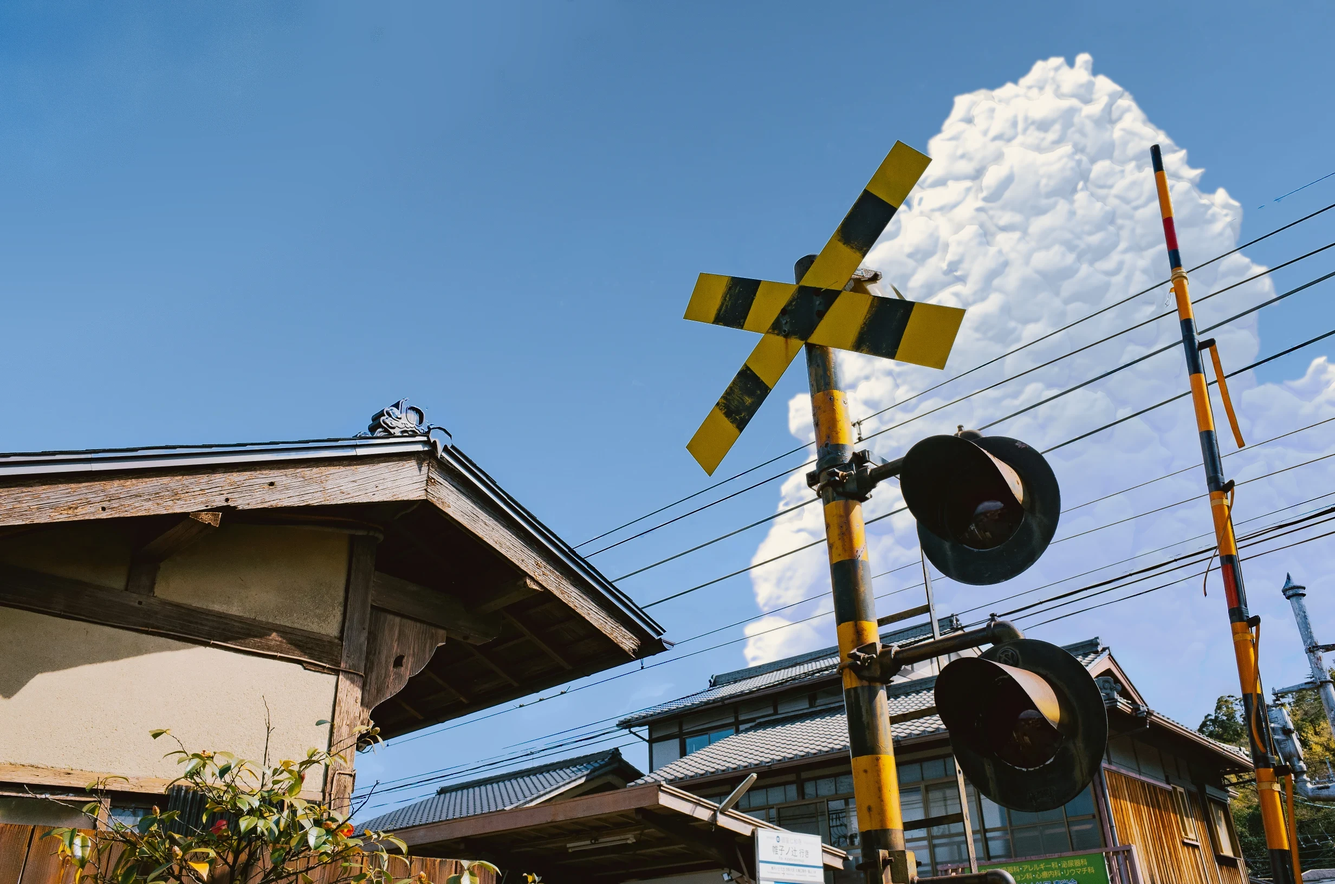
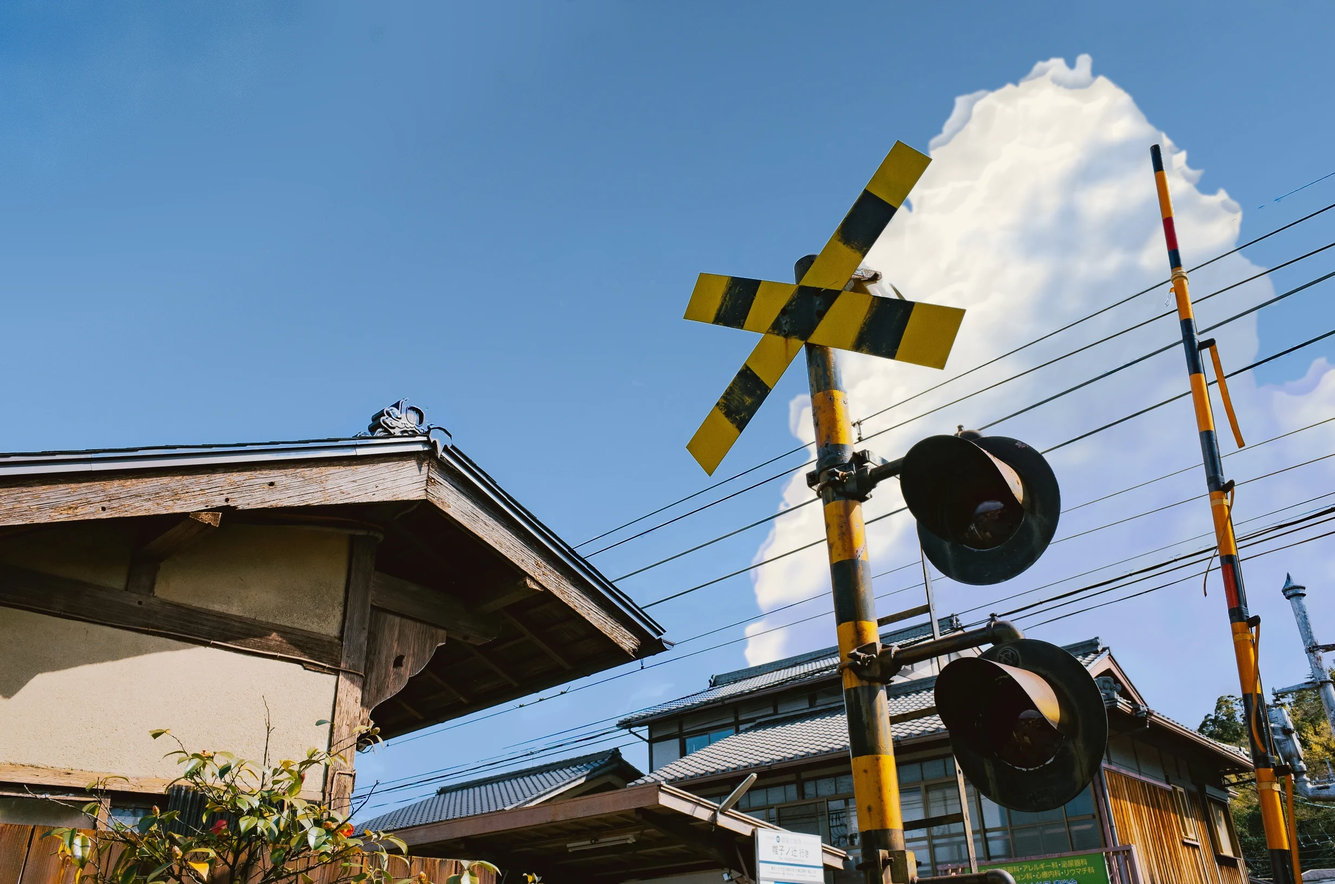
Lab: climb curve-mirror round 1
Claude-Session: https://claude.ai/code/session_01RqENhngNCzDFmJWDZueXGV

diff --git a/tools/depth/bakes/curve-mirror/clouds.py b/tools/depth/bakes/curve-mirror/clouds.py
@@ -114,9 +114,11 @@ TOP = np.array([0.93, 0.885, 0.80], np.float32)  # a sunlit top: warm neutral (s
 BELLY = np.array([0.397, 0.503, 0.651], np.float32)
 WRAP = 0.3  # the light's wrap (scattering)
 LZ = 0.35  # how much of the light falls on the face turned to the viewer
-CAP = (0.18, 0.82)  # the cap: lit to here (0, the sunlit limb), shaded from here, across the heap
-SHAPE = 6.0  # the scale the heap is lit at (its dome, not its edge), px at 28 px/deg
-RELIEF_N = 0.35  # how much of the towers' relief tilts that normal
+CAP = (0.04, 0.9)  # the cap: lit to here (0, the sunlit limb), shaded from here, across the heap
+SHAPE = 48.0  # the scale the heap is lit at (its towers, not its puffs), px at 28 px/deg
+RELIEF_N = 0.6  # how much of the big lobes' relief tilts that normal
+LOBE = 0.33  # the big lobes' domes are lit at this share of SHAPE
+DOME = (0.33, 0.56)  # a big lobe's turn to the sun: shaded under here, fully lit over here
 MFP = 120.0  # the sun's mean free path into a heap, px at 28 px/deg
 REACH = 240.0  # how far along the sun's line a heap is measured, px at 28 px/deg
 THIN = 0.42  # a thin heap's even light, between the belly (0) and the tops (1)
@@ -124,7 +126,7 @@ CHORD = (14.0, 60.0)  # a heap's chord along the sun's line: thin to here, a bod
 SIL = 0.5  # how much of a pixel is cloud before the plate's silhouette is opaque
 OPQ = 3.0  # how fast the body goes opaque with its thickness
 FEATHER = 2.2  # the edge's feather into the sky, px (sigma) at 28 px/deg
-DETAIL = 1.2  # how much of the plate's own puff texture is kept (in the light)
+DETAIL = 0.35  # how much of the puff texture is kept (in the light)
 TEX_H = 0.15  # and as relief (in the height field)
 CORE = 0.18  # how much of a pixel is cloud before it is part of a heap's body
 MERGE = 30.0  # fragments within about this (px at 28 px/deg) are one heap
@@ -429,9 +431,11 @@ def relight(lin, sky, ray, right, up, sun, ppd, aspect=None, keep=None, white=No
 # budded on its upper rim, and smaller ones again on theirs. The body is the
 # height field of the union (the nearest surface), its edge bumped with
 # smooth noise so no lobe is a circle. It takes the same light as the heaps
-# above: the sun's optical depth through the massing (the cap is its
-# sun-facing top and left, the belly the far, low side), each lobe's own
-# roundness off the height field's normal, the crevices between lobes in
+# above, at the tower's scale: the sun's optical depth through the massing
+# (the cap is its sun-facing top and left, the belly the far, low side), the
+# big lobes' domes turning across it (each lobe one dome over its buds; the
+# buds only a few per cent of texture: lit each as its own dome, they were an
+# even field of equal lumps, hammered tin), the folds between big lobes in
 # their neighbours' shade, so the light runs from TOP at the sunlit tops to
 # BELLY under them; feathered at its edge (FEATHER), thinning to a veil at
 # its base where the aerial haze takes it, and composited only over the open
@@ -447,9 +451,11 @@ TOWERS = (
         (1240, 260, 150), (1100, 230, 135), (975, 190, 120), (870, 130, 105), (800, 60, 85))},
 )
 BUD = ((0.5, 4, 0.74), (0.45, 2, 0.78))  # cauliflower: (radius, buds, distance) of each level, of its parent
+ENVELOPE = 1.3  # a big lobe's dome over its buds, of its radius (for the light)
 DEPTH_Z = 0.55  # how much nearer a lobe at a tower's middle stands than one at its flank
 WOBBLE = (9.0, 1.4)  # the edge's noise: px of coarse and fine displacement at 28 px/deg
 M_OPQ = 5.0  # px of lobe height to opaque
+EDGE_IN = 2.5  # px the edge's matte is eroded before it is feathered, at 28 px/deg
 M_MFP = 170.0  # the sun's mean free path through the massing, px at 28 px/deg
 M_REACH = 700.0  # how far toward the sun the massing is measured, px at 28 px/deg
 M_AO = 26.0  # px of crevice (the height under its neighbourhood's) for full shade
@@ -483,7 +489,8 @@ def _clear(lin, sky, s):
 
 
 def _lobes(tower, s):
-    """The tower's lobes, (x, y, r, z): its tiers' rows, each lobe budded."""
+    """The tower's lobes, (x, y, r, z, level): its tiers' rows (level 0),
+    each lobe budded (1, 2)."""
     rng = np.random.default_rng(tower["seed"])
     x0, lean = tower["x"] * s, tower["lean"]
     y_base = tower["tiers"][0][0] * s
@@ -499,13 +506,13 @@ def _lobes(tower, s):
             r = lr * rng.uniform(0.75, 1.25)
             # nearer at the tower's middle: a column, not a wall
             z = DEPTH_Z * np.sqrt(max(hw * hw - (x - xc) ** 2, 0.0)) + rng.uniform(-0.1, 0.1) * lr
-            out.append((x, y, r, z))
+            out.append((x, y, r, z, 0))
     # cauliflower: buds on each lobe's upper rim (up and out, never down
     # into the body), and buds on those
     gen = out
     for frac, nb, dist in BUD:
         new = []
-        for (x, y, r, z) in gen:
+        for (x, y, r, z, lvl) in gen:
             for _ in range(nb):
                 ang = rng.uniform(-170, -10)  # image y down: the upper half
                 rr = r * frac * rng.uniform(0.75, 1.2)
@@ -513,7 +520,7 @@ def _lobes(tower, s):
                 bx, by = x + d * np.cos(np.radians(ang)), y + d * np.sin(np.radians(ang))
                 # standing on the parent's surface there
                 bz = z + np.sqrt(max(r * r - d * d, 0.0)) * 0.9
-                new.append((bx, by, rr, bz))
+                new.append((bx, by, rr, bz, lvl + 1))
         out += new
         gen = new
     return out
@@ -521,10 +528,12 @@ def _lobes(tower, s):
 
 def _heap_field(W, H, s, seed=5):
     """The massing's height field (px, the nearest surface over the image
-    plane; -inf where there is none) and its lobe-scale part (each lobe's own
-    dome, for its roundness)."""
+    plane; -inf where there is none), and the same of the towers' big lobes
+    alone (level 0), each grown by ENVELOPE to a dome over its own buds,
+    which the light is shaped by."""
     rng = np.random.default_rng(seed)
     hf = np.full((H, W), -1e9, np.float32)
+    h0 = np.full((H, W), -1e9, np.float32)
     xs, ys = np.meshgrid(np.arange(W, dtype=np.float32), np.arange(H, dtype=np.float32))
     # the edge's wobble: the whole field read through smooth noise, so no
     # lobe is a circle and every rim has its own small puffs
@@ -537,16 +546,22 @@ def _heap_field(W, H, s, seed=5):
         disp.append(d)
     X, Y = xs + disp[0], ys + disp[1]
     for t in TOWERS:
-        for (x, y, r, z) in _lobes(t, s):
-            x0, x1 = int(max(x - r - 24 * s, 0)), int(min(x + r + 24 * s, W))
-            y0, y1 = int(max(y - r - 24 * s, 0)), int(min(y + r + 24 * s, H))
+        for (x, y, r, z, lvl) in _lobes(t, s):
+            re = r * (ENVELOPE if lvl == 0 else 1.0)
+            x0, x1 = int(max(x - re - 24 * s, 0)), int(min(x + re + 24 * s, W))
+            y0, y1 = int(max(y - re - 24 * s, 0)), int(min(y + re + 24 * s, H))
             if x0 >= x1 or y0 >= y1:
                 continue
             dx, dy = X[y0:y1, x0:x1] - x, Y[y0:y1, x0:x1] - y
-            q = r * r - dx * dx - dy * dy
+            d2 = dx * dx + dy * dy
+            q = r * r - d2
             h = np.where(q > 0, z + np.sqrt(np.maximum(q, 0)), -1e9)
             np.maximum(hf[y0:y1, x0:x1], h, out=hf[y0:y1, x0:x1])
-    return hf
+            if lvl == 0:
+                # the big lobe with its buds: one dome over them all
+                q = re * re - d2
+                np.maximum(h0[y0:y1, x0:x1], np.where(q > 0, z + np.sqrt(np.maximum(q, 0)), -1e9), out=h0[y0:y1, x0:x1])
+    return hf, h0
 
 
 def massing(lin, sky, right, up, sun, ppd):
@@ -557,7 +572,7 @@ def massing(lin, sky, right, up, sun, ppd):
     s = ppd / 28.0
     H, W = sky.shape
     cleared, base, wc = _clear(lin, sky, s)
-    hf = _heap_field(W, H, s)
+    hf, h0 = _heap_field(W, H, s)
     body = (hf > -1e8).astype(np.uint8)
     # a bud that the wobble cut off from its parent is a speck, not a heap
     nc, lc, stc, _ = cv2.connectedComponentsWithStats(body, connectivity=8)
@@ -576,30 +591,74 @@ def massing(lin, sky, right, up, sun, ppd):
     lz = max(1 - lx * lx - ly * ly, 0.0) ** 0.5
     l2 = max(np.hypot(lx, ly), 1e-3)
     ux, uy = lx / l2, ly / l2
-    # each lobe's roundness, off the height field's normal (a touch smoothed:
-    # the seams between lobes stay creases, not steps)
-    hs = cv2.GaussianBlur(h, (0, 0), 2.5 * s)
-    gy, gx = np.gradient(hs)
+    # the light, at the tower's scale, not the puff's. Lit off the full
+    # height field's normal (every bud its own dome, its own crease), the
+    # massing was one even field of equal lumps, each bevelled alike: hammered
+    # tin, a relief, no volume. So the light is built in two scales, and the
+    # buds only texture it:
+    #   the tower: the sun's optical depth through the massing (its cap, the
+    #   sun-facing top and left, lit to TOP; CAP wide, so the light turns
+    #   across the whole tower to its far, low side, the belly);
+    #   the big lobes: the towers' lobes alone, each one dome over its buds
+    #   (h0), taken to a third
+    #   of SHAPE, their relief over the tower's dome (SHAPE) tilting the
+    #   normal (RELIEF_N), so within the lit side each big dome turns from
+    #   its sunlit crown to a shaded under side, and a few large domes take
+    #   the sun;
+    #   the buds (the full field less the big lobes): a few per cent either
+    #   way in the light (DETAIL), not a normal of their own.
+    # Every blur is normalized over the body, so the silhouette's own step
+    # is no slope (lit off it, the whole outline caught the sun as a rim);
+    def nblur(x, sig, m=body):
+        return cv2.GaussianBlur(x * m, (0, 0), sig) / np.maximum(cv2.GaussianBlur(m, (0, 0), sig), 1e-3)
+    b0 = (h0 > -1e8).astype(np.float32)
+    h0 = np.maximum(h0, 0) * b0
+    hb = nblur(h, 2.5 * SHAPE * s)
+    hm = nblur(h0, LOBE * SHAPE * s, b0)
+    # (the big lobes' relief only inside their own union, fading in from
+    # its edge: a bud standing past them takes the tower's light alone)
+    rim = kit.smoothstep(0.0, 30.0 * s, cv2.distanceTransform(b0.astype(np.uint8), cv2.DIST_L2, 5)) * body
+    gy, gx = np.gradient(hb)
+    my, mx = np.gradient((hm - nblur(h0, 2.5 * SHAPE * s, b0)) * rim)
+    gx, gy = gx + RELIEF_N * mx, gy + RELIEF_N * my
     n = np.stack([-gx, gy, np.full_like(gx, 1.0)], -1)
     n /= np.linalg.norm(n, axis=-1, keepdims=True)
     ndl = n[..., 0] * lx + n[..., 1] * ly + n[..., 2] * lz
     lam = np.clip((ndl + WRAP) / (1 + WRAP), 0, 1)
-    # the sun through the massing: its cap is the sun-facing top and left
-    soft = cv2.GaussianBlur(body, (0, 0), 3.0 * s)
+    dome = np.clip((lam - DOME[0]) / (DOME[1] - DOME[0]), 0, 1)
+    # (a bud past its lobe's dome takes the dome's light beside it)
+    inner = (rim > 0.5).astype(np.float32)
+    dome = dome * rim + (1 - rim) * nblur(dome, 15.0 * s, inner)
+    # the buds only as a texture in the light: each bud's own turn to the sun
+    fy, fx = np.gradient(nblur(h, 3.0 * s) - np.where(rim > 0, hm, nblur(h, LOBE * SHAPE * s)))
+    nf = np.stack([-fx, fy, np.full_like(fx, 1.0)], -1)
+    nf /= np.linalg.norm(nf, axis=-1, keepdims=True)
+    bud = nf[..., 0] * lx + nf[..., 1] * ly + (nf[..., 2] - 1) * lz
+    bud = cv2.GaussianBlur(bud.astype(np.float32), (0, 0), 1.5 * s)
+    # the tower: the sun through the massing, taken at the tower's scale (its
+    # outline softened by SHAPE: through the fine one every bump on the far
+    # side's edge had a short way out to the sun, and lit, a bright rim)
+    soft = cv2.GaussianBlur(body, (0, 0), 0.5 * SHAPE * s)
     step = 3.0 * s
     nst = int(M_REACH * s / step)
     d_sun = _march(soft, ux, uy, step, nst)
     d_far = _march(soft, -ux, -uy, step, nst)
     frac = d_sun / np.maximum(d_sun + d_far, 1e-3)
-    frac = cv2.GaussianBlur(frac.astype(np.float32), (0, 0), 3.0 * s)
+    # (smoothed across the outline's every notch, the turn is the tower's;
+    # over the body only: blurred with the open sky's 0 round it, the far
+    # side's edge read as sunlit, a bright rim round the whole silhouette)
+    frac = nblur(frac.astype(np.float32), 20.0 * s)
     tr = np.exp(-d_sun / (M_MFP * s))
-    cap = 1 - kit.smoothstep(0.08, 0.75, frac)
-    # the crevices between lobes: in their neighbours' shade
-    nb = cv2.GaussianBlur(h, (0, 0), 14.0 * s) / np.maximum(cv2.GaussianBlur(body, (0, 0), 14.0 * s), 1e-3)
-    ao = 1 - kit.smoothstep(0.0, M_AO * s, nb - h) * 0.85
-    direct = (0.55 * cap + 0.45 * tr) * (0.25 + 0.75 * lam) * (0.55 + 0.45 * ao)
-    lit = np.clip(kit.smoothstep(0.04, 0.72, direct), 0, 1)
-    lit = cv2.GaussianBlur(lit.astype(np.float32), (0, 0), 0.8 * s)
+    cap = 1 - kit.smoothstep(CAP[0], CAP[1], frac)
+    tower = kit.smoothstep(0.0, 1.0, 0.65 * cap + 0.35 * tr)
+    # the folds between the big lobes: in their neighbours' shade (at the
+    # lobes' scale, so a bud's own crease is not a fold)
+    ao = 1 - kit.smoothstep(0.0, M_AO * s, nblur(h0, 1.5 * SHAPE * s, b0) - hm) * 0.85 * rim
+    # lit: the tower's sunlit side, each big dome turning across it; on the
+    # shaded side the domes that face the sun keep a little of it
+    lit = tower * (0.25 + 0.75 * dome) + (1 - tower) * 0.18 * dome * dome
+    lit = np.clip(kit.smoothstep(0.02, 0.92, lit * (0.75 + 0.25 * ao)), 0, 1)
+    lit = cv2.GaussianBlur(lit.astype(np.float32), (0, 0), 1.5 * s)
     C = BELLY + (TOP - BELLY) * lit[..., None]
     # in the shade the lobes are lit by the sky above them, so the belly is
     # not a flat blue: a lobe's upper face a little over BELLY, its under
@@ -611,15 +670,20 @@ def massing(lin, sky, right, up, sun, ppd):
     # fine puffs in the light (the billows, as on the heaps above)
     bill = _fbm((H, W), s, seed=17)
     fine = bill - cv2.GaussianBlur(bill, (0, 0), 5.0 * s)
-    C = C * np.exp(0.02 * fine)[..., None]
+    C = C * np.exp(0.02 * fine + DETAIL * 0.3 * bud * (0.4 + 0.6 * lit))[..., None]
     # the base: the aerial haze between it and the lens takes it toward the sky
     yy = np.arange(H, dtype=np.float32)[:, None] / s
     hz = BASE_HAZE[2] * kit.smoothstep(BASE_HAZE[0], BASE_HAZE[1], yy)
     C = C * (1 - hz[..., None]) + base * 1.35 * hz[..., None]
     C = np.maximum(C, base * 1.04)
     C = np.minimum(C, TOP[None, None] * 1.02)
-    # the edge: opaque a few px of lobe in, feathered into the cobalt
+    # the edge: opaque a few px of lobe in, feathered into the cobalt; the
+    # matte eroded by EDGE_IN first, so the feather's tail sits on the body
+    # rather than past it (laid past it, the lit limb's pale tail round the
+    # silhouette was what the print's diffusion bloomed into a white rim)
     op = (1 - np.exp(-np.maximum(h, dt) / (M_OPQ * s))) * body
+    ek = max(round(EDGE_IN * s), 1)
+    op = cv2.erode(op.astype(np.float32), cv2.getStructuringElement(cv2.MORPH_ELLIPSE, (2 * ek + 1, 2 * ek + 1)))
     op = np.clip(cv2.GaussianBlur(op.astype(np.float32), (0, 0), FEATHER * s) * 1.04, 0, 1)
     # the composite, unmixed against the open-sky matte: on the sky the new
     # sky is the cleared sky under the cloud; a pixel part wire (or eave)
